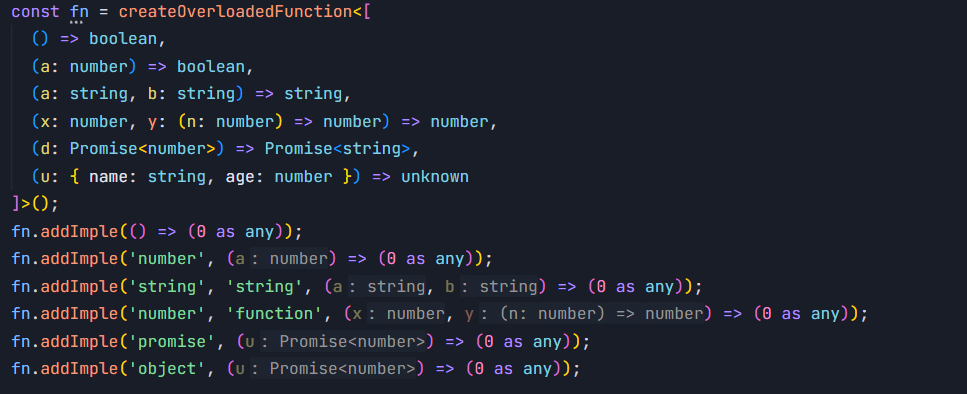
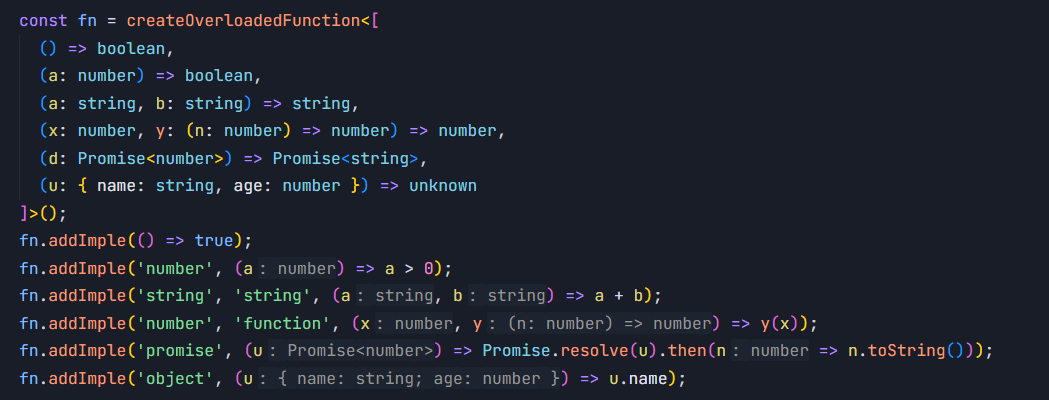
提交

Changed region(s): [[0.0, 0.0, 0.5274, 0.5482], [0.0, 0.5482, 0.8997, 0.8223], [0.0, 0.8528, 0.9617, 0.9746]]

diff --git a/src/main.ts b/src/main.ts
@@ -2,115 +2,123 @@ import { createOverloadedFunction } from './index';
 import { createExtendType } from './utils';
 
 
-const fn = createOverloadedFunction<[
-  () => boolean,
-  (a: number) => boolean,
-  (a: string, b: string) => string,
-  (x: number, y: (n: number) => number) => number,
-  (d: Promise<number>) => Promise<string>,
-  (u: { name: string, age: number }) => unknown
-]>();
-fn.addImple(() => true);
-fn.addImple('number', (a) => a > 0);
-fn.addImple('string', 'string', (a, b) => a + b);
-fn.addImple('number', 'function', (x, y) => y(x));
-fn.addImple('promise', (u) => Promise.resolve(u).then(n => n.toString()));
-fn.addImple('object', (u) => u.name);
+// const fn = createOverloadedFunction<[
+//   () => boolean,
+//   (a: number) => boolean,
+//   (a: string, b: string) => string,
+//   (x: number, y: (n: number) => number) => number,
+//   (d: Promise<number>) => Promise<string>,
+//   (u: { name: string, age: number }) => unknown
+// ]>();
+// fn.addImple(() => true);
+// fn.addImple('number', (a) => a > 0);
+// fn.addImple('string', 'string', (a, b) => a + b);
+// fn.addImple('number', 'function', (x, y) => y(x));
+// fn.addImple('promise', (u) => Promise.resolve(u).then(n => n.toString()));
+// fn.addImple('object', (u) => u.name);
 
-type A = Promise<number> extends object ? true : false;
-type B = null extends object ? true : false;
+// console.log(fn());
+// console.log(fn(10));
+// console.log(fn('hello', ' world'));
+// console.log(fn(5, n => n * 2));
+// console.log(fn(Promise.resolve(42)));
+// console.log(fn({ name: 'Alice', age: 30 }));
 
-console.log(fn());
-console.log(fn(10));
-console.log(fn('hello', ' world'));
-console.log(fn(5, n => n * 2));
-console.log(fn(Promise.resolve(42)));
-console.log(fn({ name: 'Alice', age: 30 }));
-
-// class User {
-// 	constructor(public name: string, public age: number, public gender: string) {}
-// }
-
-// const extendType = createExtendType({
-// 	user: User,
-// });
+// const fun = createOverloadedFunction<[
+//   (a: string[]) => string
+// ]>();
+// fun.addImple('object', (a) => a.join(''));
+// fun.addImple('array', (a) => a.join(''));
 
 // const func = createOverloadedFunction<[
-// 	() => void,
-// 	(x: number) => number,
-// 	(x: string, y: string) => string,
-// 	(x: {
-// 		name: string;
-// 		age: number;
-// 		address: string;
-// 	}) => boolean,
-// 	(x: number, y: (n: number) => number) => number,
-// 	(d: Promise<number>) => string,
-// 	(u: User) => string,
-// 	(this: User, n: number, s: string) => boolean
-// ], typeof extendType>({
-// 	// allowMultiple: true,
-// 	extendType
-// });	
+//   (a: string) => string,
+//   (a: number, b: number) => boolean
+// ]>({ allowMultiple: true });
 
-// func.addImple(() => {
-// 	console.log('First implementation for void');
+// func.addImple('string', (a) => {
+//   console.log('first implementation');
+//   return a;
 // });
-// func();
-
-// func.addImple('number', (x) => {
-// 	console.log('First implementation for number');
-// 	return x * 2;
-// });
-// // func.addImple('number', (x) => {
-// // 	console.log('Second implementation for number');
-// // 	return x * 3;
-// // });
-// // func.addImple('number', (x) => {
-// // 	console.log('Third implementation for number');
-// // 	return x * 4;
-// // });
-
-// func.addImple('string', 'string', (x, y) => {
-// 	return x + y;
+// func.addImple('string', (a) => {
+//   console.log('second implementation');
+//   return a.toUpperCase();
 // });
 
-// func.addImple('object', (x) => {
-// 	return x.age > 18;
-// });
-
-// func.addImple('number', 'function', (x, y) => {
-// 	return y(x) + 2;
-// });
-
-// func.addImple('promise', (d) => {
-// 	return 'Handled a promise';
-// });
-
-// func.addImple('user', (u) => {
-// 	return `User: ${u.name}, Age: ${u.age}`;
-// });
-
-// func.addImple('number', 'string', function(a) {
-// 	this.name
-// 	return true;
-// });
-
-// const r1 = func(10);
-// const r2 = func('hello', 'world');
-// const r3 = func({ name: 'Alice', age: 20, address: '123 Main St' });
-// const r4 = func(10, (x) => x * 2);
-// const r6 = func(new User('pink', 23, 'male'))
+// const r1 = func('hello'); // HELLO
+// console.log(r1);
 
 
-// console.log(r1, r2, r3, r4, r6); // 20 'helloworld' true
+class User {
+	constructor(public name: string, public age: number, public gender: string) {}
+}
 
-// type A = (this: User, a: number) => number;
+const extendType = createExtendType({
+	user: User,
+});
 
-// type B = Parameters<A>;
-// type C = ThisType<A>;
+const func = createOverloadedFunction<[
+	() => void,
+	(x: number) => number,
+	(x: string, y: string) => string,
+	(x: {
+		name: string;
+		age: number;
+		address: string;
+	}) => boolean,
+	(x: number, y: (n: number) => number) => number,
+	(d: Promise<number>) => string,
+	(u: User) => string,
+	(this: User, n: number, s: string) => boolean
+], typeof extendType>({
+	// allowMultiple: true,
+	extendType
+});	
 
-// let c: C = 8;
+func.addImple(() => {
+	console.log('First implementation for void');
+});
+func();
+
+func.addImple('number', (x) => {
+	console.log('First implementation for number');
+	return x * 2;
+});
+
+func.addImple('string', 'string', (x, y) => {
+	return x + y;
+});
+
+func.addImple('object', (x) => {
+	return x.age > 18;
+});
+
+func.addImple('number', 'function', (x, y) => {
+	return y(x) + 2;
+});
+
+func.addImple('promise', (d) => {
+	return 'Handled a promise';
+});
+
+func.addImple('user', (u) => {
+	return `User: ${u.name}, Age: ${u.age}`;
+});
+
+func.addImple('number', 'string', function(a) {
+	this.name
+	return true;
+});
+
+const r1 = func();
+const r2 = func(10);
+const r3 = func('hello', ' world');
+const r4 = func({ name: 'Alice', age: 20, address: '123 Main St' });
+const r5 = func(5, n => n * 2);
+const r6 = func(Promise.resolve(42));
+const r7 = func(new User('pink', 23, 'male'));
+
+console.log(r1, r2, r3, r4, r5, r6, r7);
+
 
 // const test = createOverloadedFunction<[
 // 	(this: Test, n: number) => boolean,
@@ -118,18 +126,19 @@ console.log(fn({ name: 'Alice', age: 30 }));
 // ]>();
 
 // test.addImple('number', function(n) {
-// 	return true;
+// 	return n > this.count;
 // });
-// test.addImple('string', 'string', function(n) {
-// 	return n;
+// test.addImple('string', 'string', function(n, m) {
+// 	return n + m;
 // });
 // class Test {
+//   count = 10
 // 	test = test
 // }
 // const t = new Test();
 
-// t.test(8)
-// t.test('pknk', 'lll')
+// console.log(t.test(8));
+// console.log(t.test('pknk', 'lll'));
 
 // class Teacher {
 // 	salary: number;
@@ -168,18 +177,20 @@ console.log(fn({ name: 'Alice', age: 30 }));
 // console.log(res3, res4); // true hello
 
 // class Person {
-// 	address: string;
 // 	constructor(public name: string, public age: number) {}
 // }
 // const extendType3 = createExtendType({
 // 	person: Person,
 // });
 // const fn = createOverloadedFunction<[
-// 	(a: { name: string, age: number, gender: string }) => number,
+// 	(a: { name: string, age: number }) => number,
 // 	(a: Person) => boolean
 // ], typeof extendType3>({
 // 	extendType: extendType3,
 // });
 // fn.addImple('object', (a) => a.age);
 // fn.addImple('person', (a) => a.age > 18);
+
+// console.log(fn({ name: 'pink', age: 23 }));
+// console.log(fn(new Person('pink', 23)));
 

diff --git a/src/interface.ts b/src/interface.ts
@@ -12,9 +12,7 @@ export type LooseEqual<X, Y> = Equal<Y, object> extends true
     : X extends Y
     	? true
     	: false
-  	: X extends Y
-  	? true
-  : false;
+  : X extends Y ? true : false;
 // 内置类型
 type BaseType = Omit<TypeMap<{}>, 'object'> extends Record<string, infer V> ? V : never;
 

diff --git a/README.md b/README.md
@@ -92,7 +92,33 @@ const r2 = func(1, 2); // boolean
 
 目前支持这些类型，包含所有基本类型，以及一些常用的内置类型。能够满足大部分的场景。
 
-相较于 array、map 这些数据类型，object 匹配优先级最低。
+需要注意的是，`object` 类型不能和其他内置类型匹配，例如 `any[]`、`Map` 等，这些类型本该满足 `extends object` 的条件，但是为了更好的作区分，内部判断时**不为 `object` 类型的其他内置类型，是不会被认为匹配 `object` 类型的**。例如这样：
+
+```typescript
+const fun = createOverloadedFunction<[
+  (a: string[]) => string
+]>();
+fun.addImple('object', (a) => a.join('')); // error
+fun.addImple('array', (a) => a.join(''));
+```
+
+![object 类型](./static/11.png)
+
+你不能拿 `object` 参数去匹配 `string[]`，虽然这在 TS 中看起来是正常的，但在这里你需要用 `array` 来匹配数组类型。
+
+源码中使用了一个 `LooseEqual` 类型工具来匹配函数参数类型
+
+```typescript
+export type LooseEqual<X, Y> = Equal<Y, object> extends true
+  ? X extends BaseType
+    ? false
+    : X extends Y
+    	? true
+    	: false
+  : X extends Y ? true : false;
+```
+
+其中 `BaseType` 为`object` 以外的其他**内置类型**。`object` 类型会单独处理，不会和其他内置类型匹配。
 
 ### 可选参数
 
@@ -134,11 +160,7 @@ fn.addImple('object', (a) => a.age);
 fn.addImple('person', (a) => a.age > 18); // error
 ```
 
-在上面的例子中，两个实现匹配到的都是第一个函数签名。因为 TS 是结构化类型，`Person` 类型和 `{ name: string, age: number }` 是兼容的。源码中使用了一个 `LooseEqual` 类型工具来匹配函数参数类型
-
-```typescript
-export type LooseEqual<X, Y> = X extends Y ? true : Y extends X ? true : false;
-```
+在上面的例子中，两个实现匹配到的都是第一个函数签名（运行起来虽然会得到想要的结果，但是 TS 会报错）。因为 TS 是结构化类型，`Person` 类型和 `{ name: string, age: number }` 是兼容的。
 
 如果确实需要上面的功能，就需要两个对象拥有明确区别的属性。我们可以为 `Person` 添加一个 `gender` 属性，为 `{ name: string, age: number }` 添加一个 `id` 属性。这样一来，就能正确匹配到各自的函数签名。
 
@@ -169,6 +191,8 @@ const r1 = func('hello'); // HELLO
 ```
 
 此时，调用函数并传入一个 `string` 类型参数，会**依次调用两个实现函数**。但是要注意，**返回值为最后一个实现函数的返回值**。
+
+![allowMultiple 配置选项](./static/12.png)
 
 ### 拓展类型
 
@@ -205,8 +229,41 @@ const res2 = test2(new Student('Alice'));
 console.log(res1, res2); // John 5
 ```
 
-正如之前 [*结构化类型*](#结构化类型) 中提到的问题，TS 是结构化类型系统。所以上面的例子中，为了区分 `Teacher` 和 `Student`，它们必须拥有不同的属性。
+正如之前 [*结构化类型*](#结构化类型) 中提到的问题，TS 是结构化类型系统。所以上面的例子中，为了区分 `Teacher` 和 `Student`，它们必须拥有能够区分彼此的不同属性。
 
 当通过 `extendType` 拓展类型时，`addImple` 方法的可选类型参数就会增加 `teacher` 和 `student`，同时也会有相应的代码提示。
 
 ![代码提示](./static/04.png)
+
+### 在类中使用
+
+要在类中使用函数，重要的一点就是正确处理 `this` 的指向，并且在 TS 类型中正确推导它。如果你 TS 写的还不错，那这和上面例子的使用并没有大的区别。
+
+```typescript
+const test = createOverloadedFunction<[
+	(this: Test, n: number) => boolean,
+	(this: Test, n: string, s: string) => string,
+]>();
+
+test.addImple('number', function(n) {
+	return n > this.count;
+});
+test.addImple('string', 'string', function(n, m) {
+	return n + m;
+});
+class Test {
+  count = 10
+  test = test
+}
+const t = new Test();
+
+console.log(t.test(8));
+console.log(t.test('pknk', 'lll'));
+```
+
+1. 在定义函数签名时，需要使用 `this` 类型来指定 `this` 的指向。
+2. 在添加实现函数时，不能使用箭头函数，而是使用普通函数。这是 JS 基础知识，这里就不做赘述。
+
+这样就可以实现重载的同时，拥有正确的 `this` 类型推导。
+
+![在类中使用](./static/13.png)
